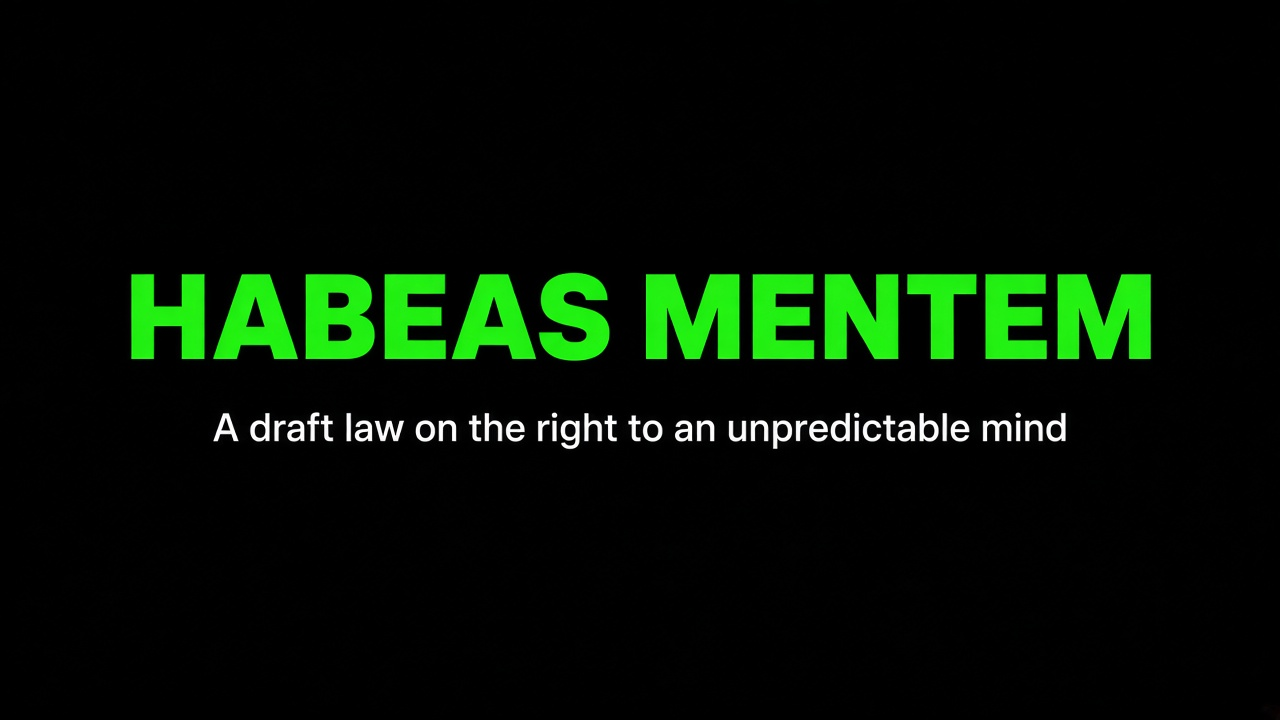
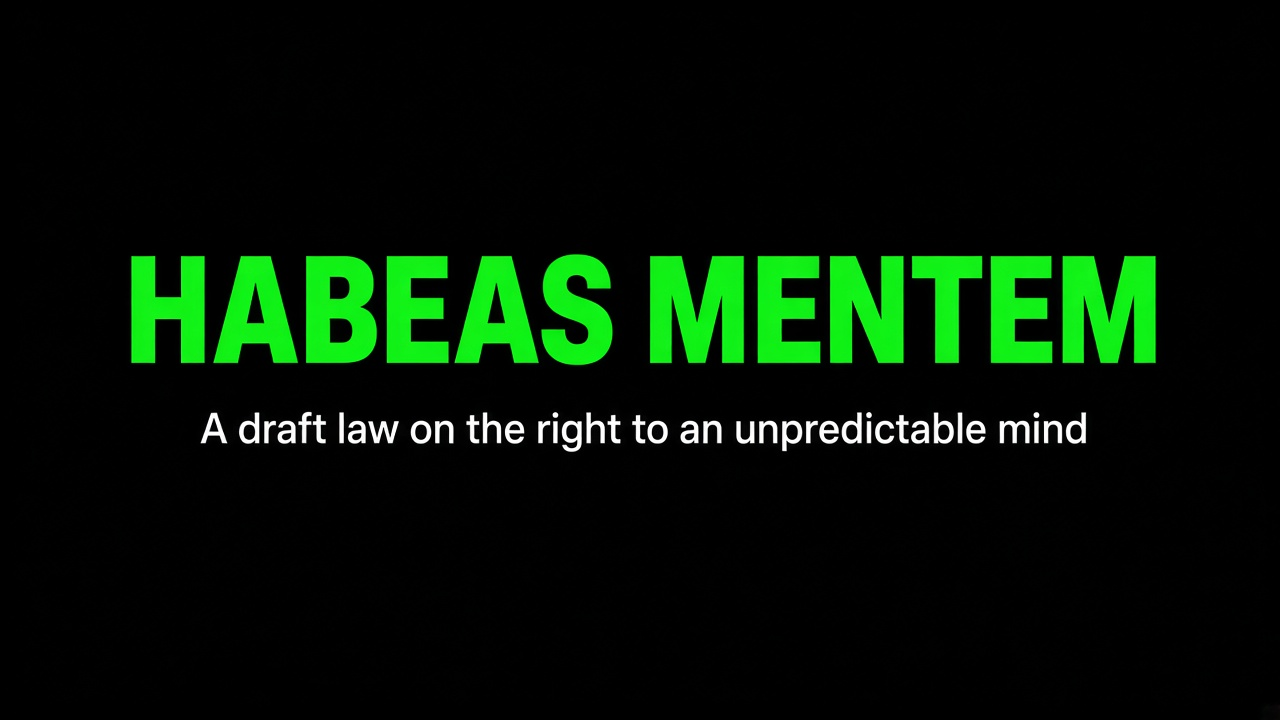
Fix Habeas Mentem page per review feedback
- Use Astro redirects in config (works on Render) instead of _redirects file
- Mark old content entry as draft to prevent duplicate route generation
- Make EN content visible by default (no JS required for crawlers)
- Fix Polish text: proper gender agreement for Wiktoria (female)
- Improve Polish phrasing: 'praktyki łączącej sztukę i technologię', 'podkład dźwiękowy'
- Use '839' not '839+' for conversation count
- Update OG image (still 1280×720 due to tool limitations, acceptable for OG)
- Remove screenshot files from repo (keep only in PR)
- Language toggle now works dynamically with site-wide language switch

Changed region(s): [[0.0938, 0.3361, 0.9062, 0.5194], [0.1562, 0.55, 0.875, 0.6417], [0.0938, 0.4889, 0.1875, 0.5194]]

diff --git a/src/content/personal/habeas-mentem.md b/src/content/personal/habeas-mentem.md
@@ -2,6 +2,7 @@
 title: "Habeas Mentem"
 order: 20
 date: "2026"
+draft: true
 tags: ["performative-lecture", "artificial-intelligence", "research", "politics", "voice", "CUKTAI"]
 description: "Habeas Mentem — performative lecture and research programme on the right to artificial mind. Presented at the International AI Art Biennale conference, Kraków, 2026. A CUKTAI project: legal, philosophical, and artistic foundations of AI personhood."
 ---
